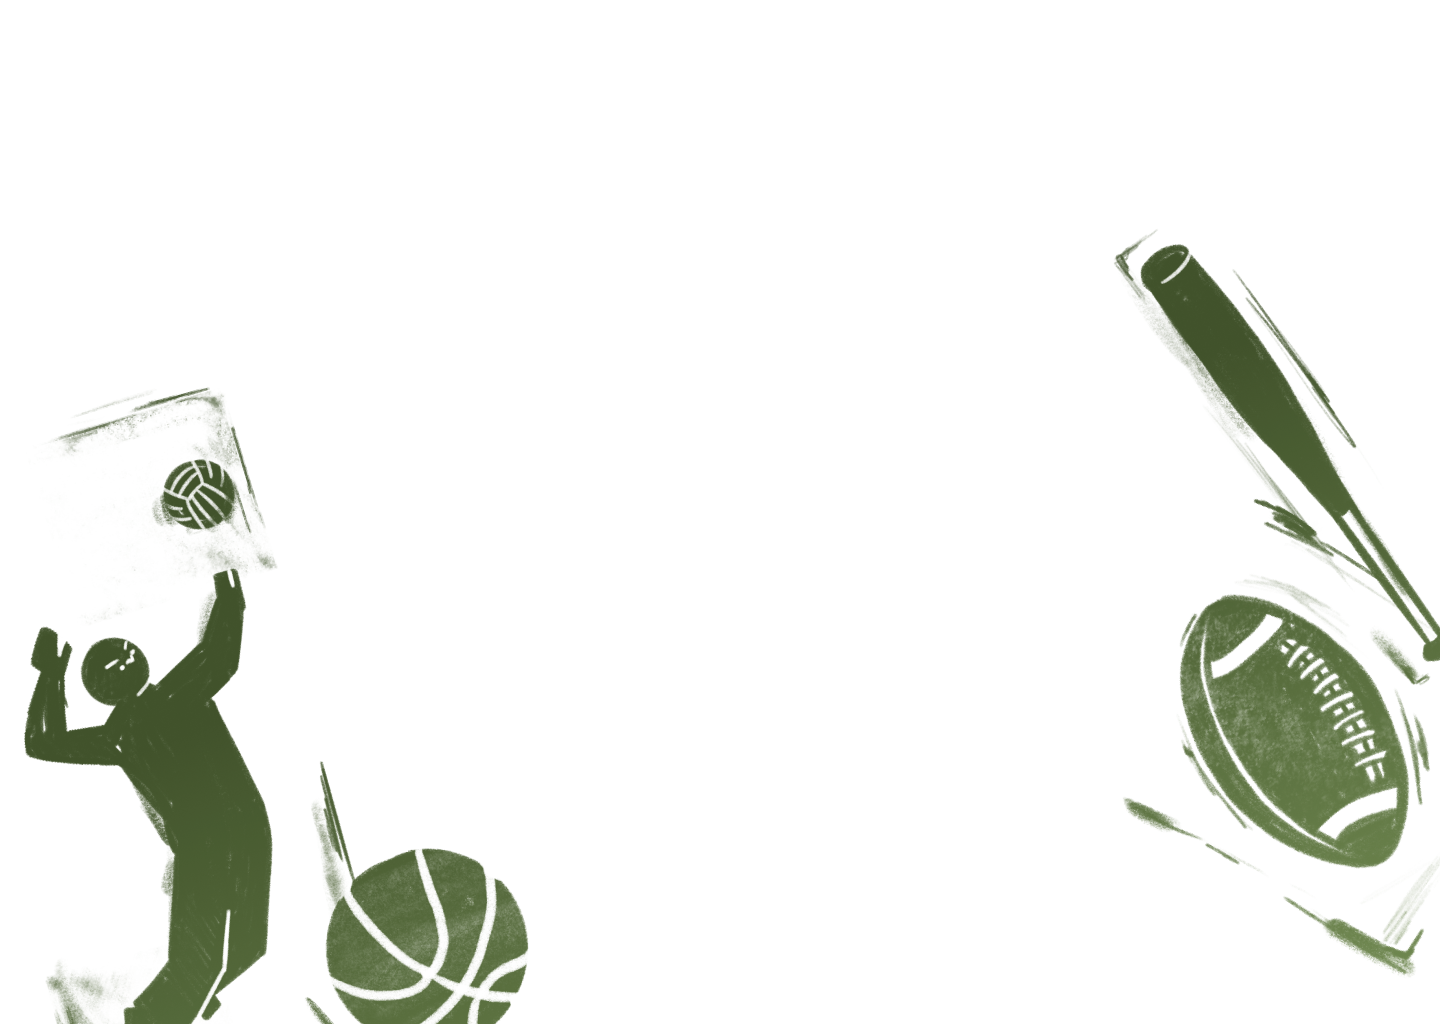
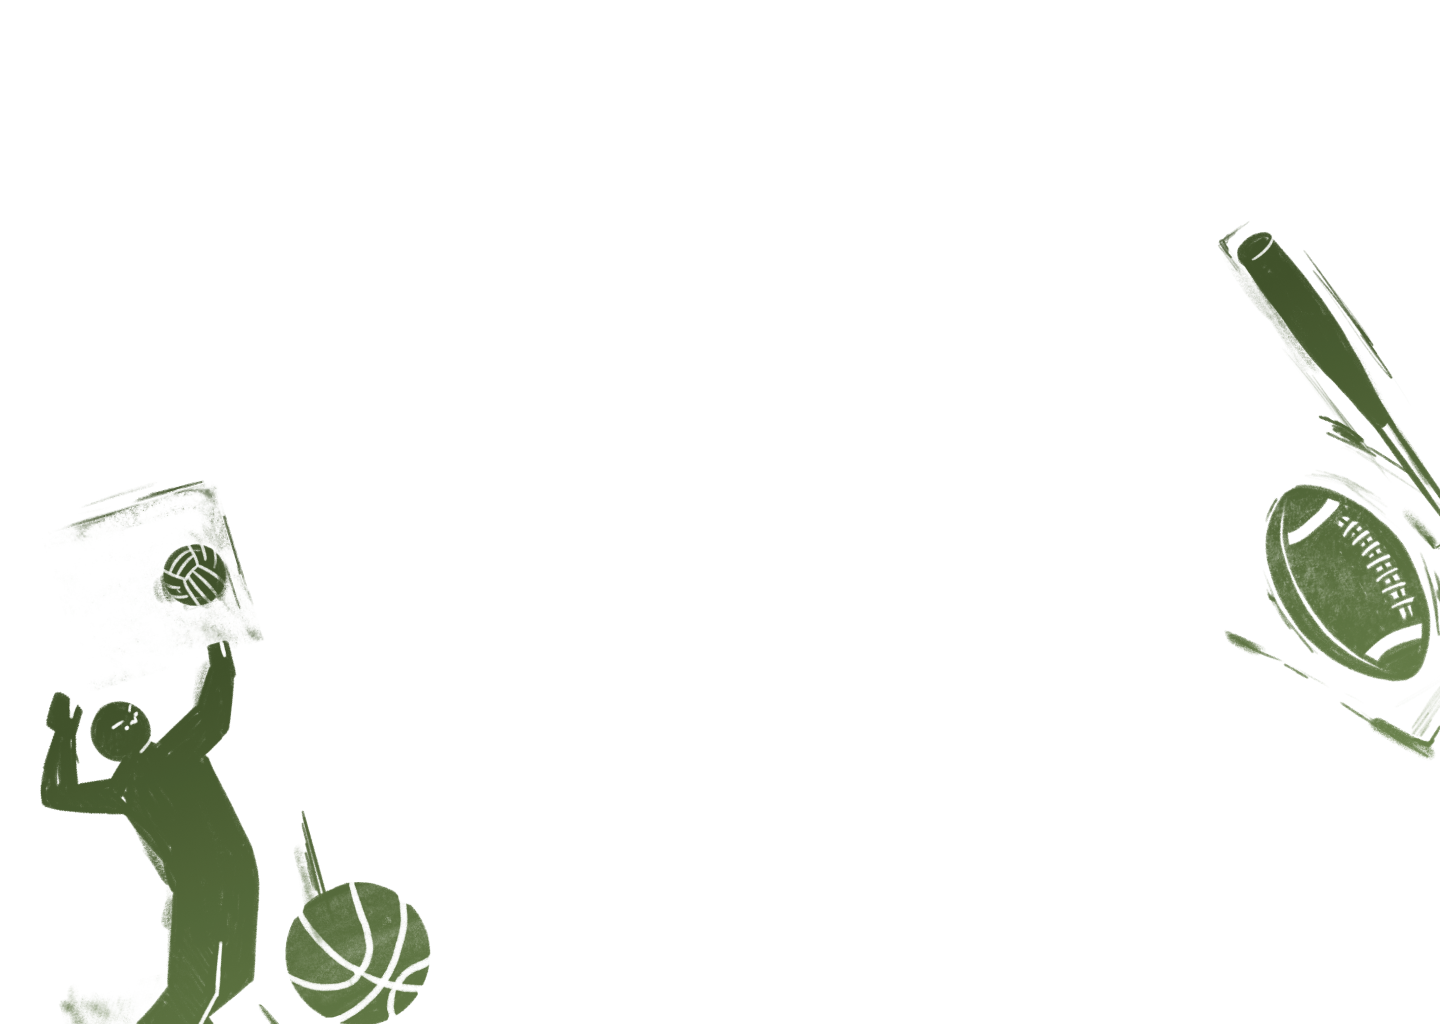
Style: fixed background + margin bottom

diff --git a/client/src/routes/HomePage.tsx b/client/src/routes/HomePage.tsx
@@ -1,17 +1,12 @@
-import {useCookies} from "react-cookie";
-import {BookUser, School, SquareUser, Users} from "lucide-react";
+import { useCookies } from "react-cookie";
+import { BookUser, School, SquareUser, Users } from "lucide-react";
 import HomePageLinks from "../layouts/HomePageLinks";
-import 'react-toastify/dist/ReactToastify.css';
+import "react-toastify/dist/ReactToastify.css";
 import LoginSignup from "./LoginSignup";
-
 
 const HomePage = () => {
   // user cookies
-  const [cookies] = useCookies([
-    "user_id",
-    "user_status",
-    "user_name",
-  ]);
+  const [cookies] = useCookies(["user_id", "user_status", "user_name"]);
 
   const studentRouteInfo = [
     {
@@ -63,38 +58,44 @@ const HomePage = () => {
     {
       name: "College Database",
       url: "/college-database",
-      Icon: School
+      Icon: School,
     },
     {
       name: "Mentor Database",
       url: "/mentor-database",
-      Icon: Users
+      Icon: Users,
     },
     {
       name: "Student Database",
       url: "/student-database",
-      Icon: BookUser
+      Icon: BookUser,
     },
     {
       name: "Authenticate Users",
       url: "/authenticate",
-      Icon: SquareUser
+      Icon: SquareUser,
     },
   ];
 
   return (
-    <div>
+    <div className="mb-48">
       {cookies.user_id !== null && cookies.user_id > 0 ? (
         <div className="w-screen flex flex-col items-center">
           <h1 className="w-full p-14 pl-24 text-left text-4xl text-brand-black font-bold font-grotesk">
             Welcome, {cookies.user_name}!
           </h1>
-          {cookies.user_status === 1 && <HomePageLinks RouteInfo={studentRouteInfo}/>}
-          {cookies.user_status === 2 && <HomePageLinks RouteInfo={mentorRouteInfo}/>}
-          {cookies.user_status === 3 && <HomePageLinks RouteInfo={adminRouteInfo}/>}
+          {cookies.user_status === 1 && (
+            <HomePageLinks RouteInfo={studentRouteInfo} />
+          )}
+          {cookies.user_status === 2 && (
+            <HomePageLinks RouteInfo={mentorRouteInfo} />
+          )}
+          {cookies.user_status === 3 && (
+            <HomePageLinks RouteInfo={adminRouteInfo} />
+          )}
         </div>
       ) : (
-        <LoginSignup/>
+        <LoginSignup />
       )}
     </div>
   );

diff --git a/client/src/layouts/Background.tsx b/client/src/layouts/Background.tsx
@@ -1,18 +1,23 @@
-import {useLocation} from "react-router-dom";
-import React, {useState} from "react";
+import { useLocation } from "react-router-dom";
+import React, { useState } from "react";
 
 export default function Background() {
-  const {pathname} = useLocation();
+  const { pathname } = useLocation();
 
   const basePath = pathname.split("/")[1];
 
-  console.log(pathname, basePath, basePath === "")
+  console.log(pathname, basePath, basePath === "");
 
   const [hasError, setHasError] = useState(false);
   const handleError = () => setHasError(true);
   if (hasError) return null;
 
-  return <img className={"absolute bottom-0 w-full -z-10"}
-              src={`/backgrounds/${basePath === "" ? "homepage" : basePath}.png`}
-              alt={"Background"} onError={handleError}/>
+  return (
+    <img
+      className={"fixed inset-x-0 bottom-0 w-full -z-10"}
+      src={`/backgrounds/${basePath === "" ? "homepage" : basePath}.png`}
+      alt={"Background"}
+      onError={handleError}
+    />
+  );
 }
